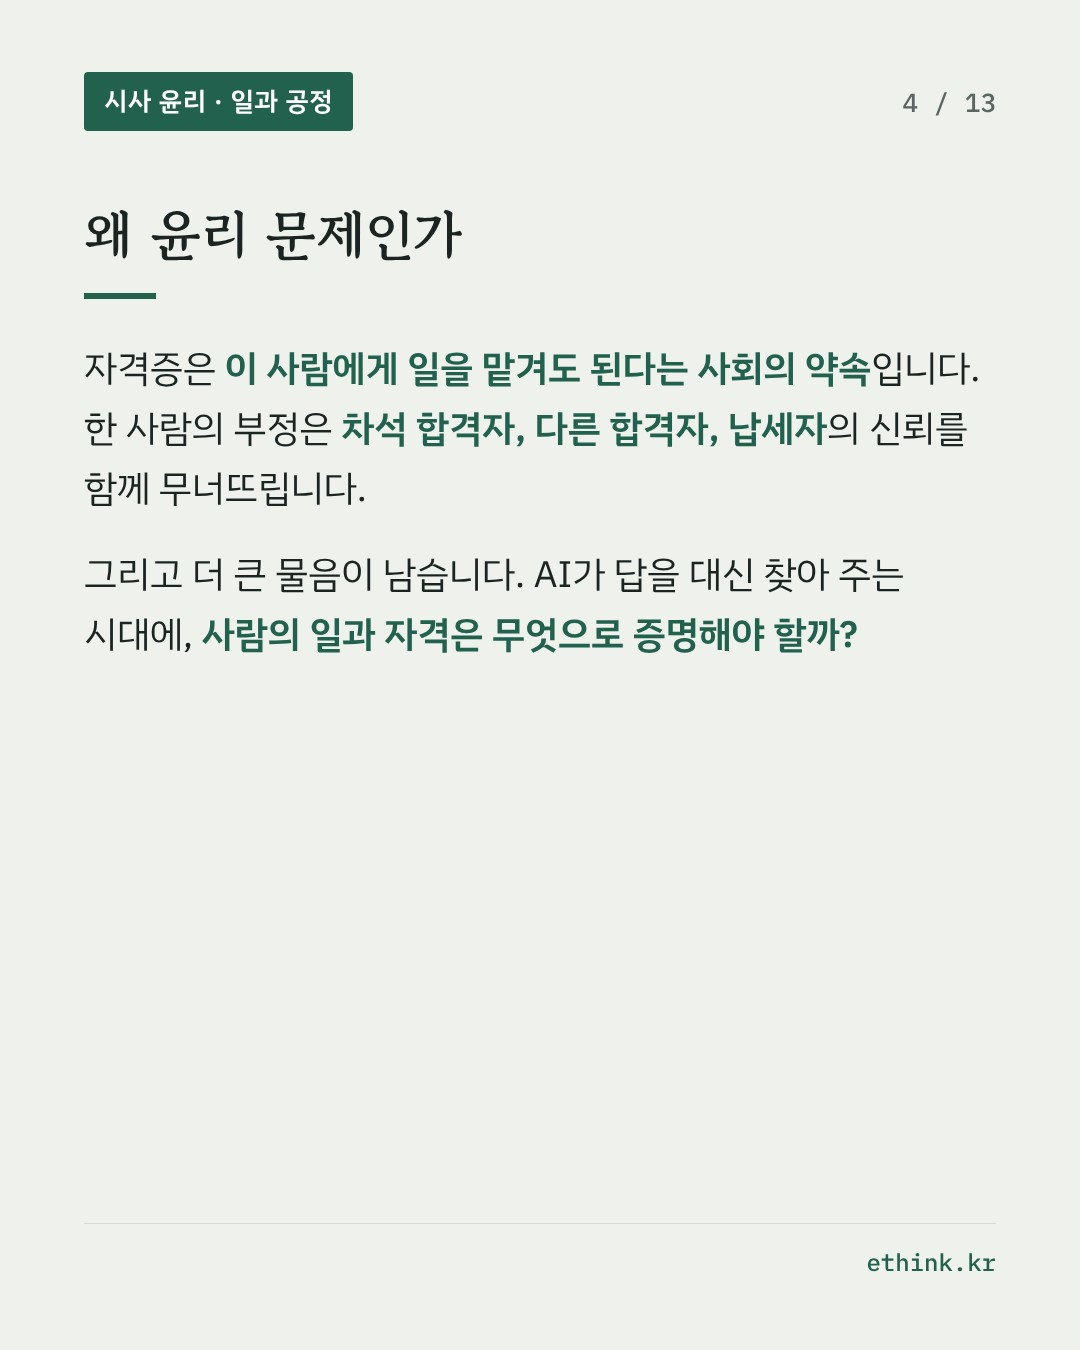
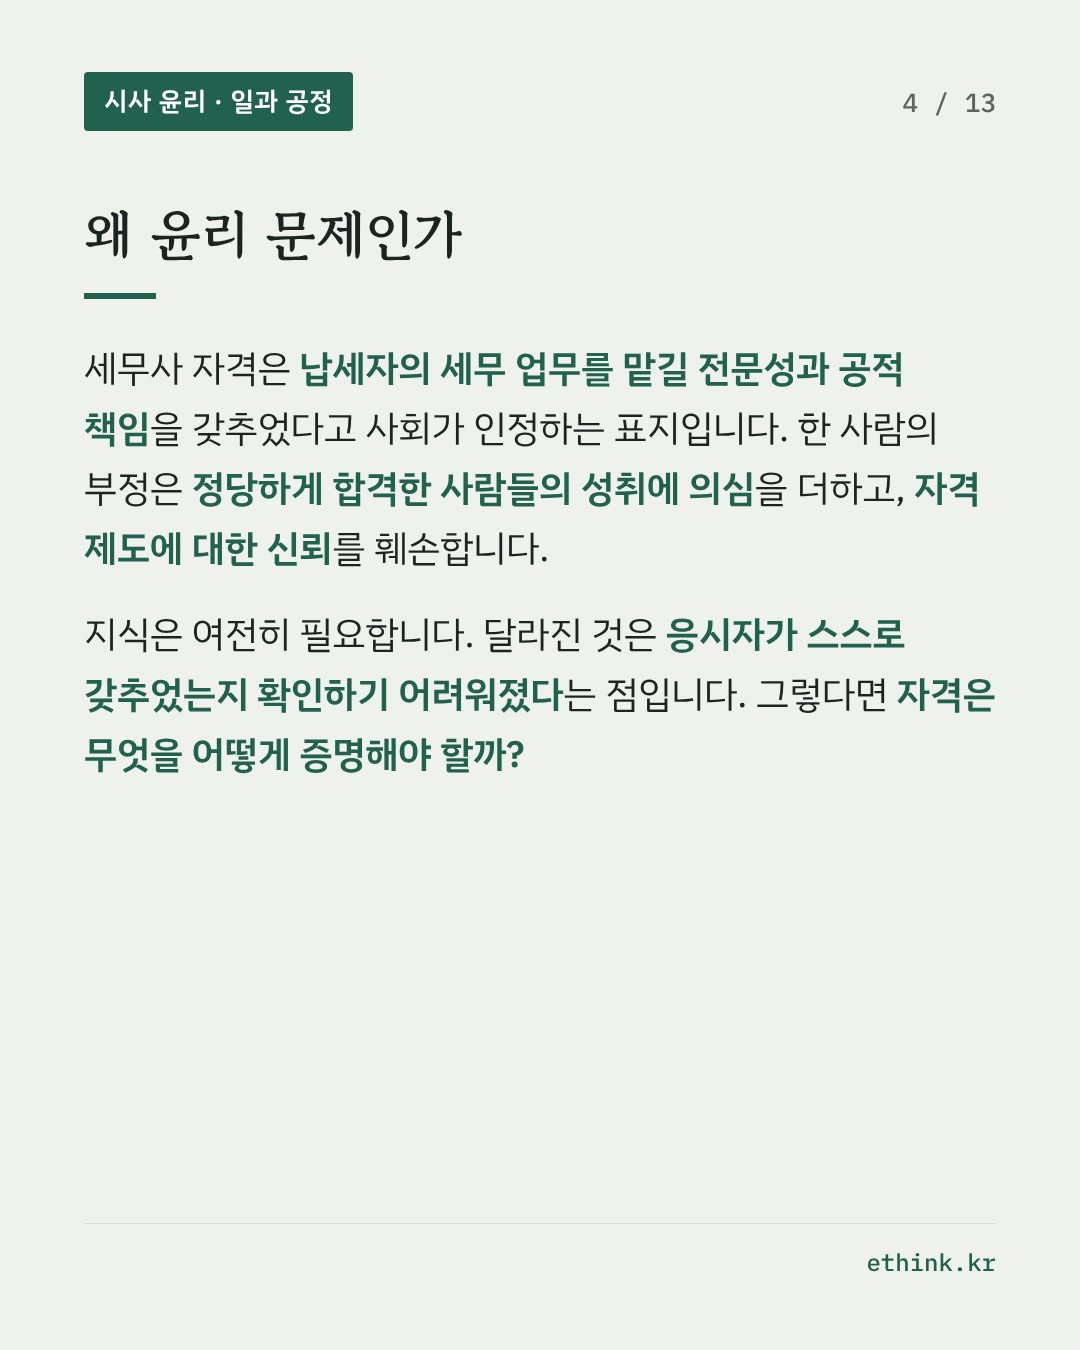
draft 11.16: GPT 검토 반영(합격 자리 서술, 세무사 직무, 진행형 처분, 6건, 시험 도식 재구성, 한은 문단 이동)

Changed region(s): [[0.0611, 0.2489, 0.9167, 0.5911]]

diff --git a/_items/2026-11-16/1.md b/_items/2026-11-16/1.md
@@ -5,7 +5,7 @@ section: 일과 공정
 kicker: 국내 · 11월 15일 세무사 시험 수석 합격자 자수
 title: 세무사 수석의 자백, 시험이 증명하던 자격은 어디로 가는가?
 question: AI가 답을 대신 찾아 주는 시대에, 자격과 일의 가치는 무엇으로 증명되어야 할까?
-caution: 세무사 시험 수석 합격자의 부정행위는 본인이 자수하며 밝힌 내용이고, 경찰 수사가 막 시작된 단계입니다. 혐의와 처분은 아직 확정되지 않았습니다. 이 글은 당사자의 이름을 쓰지 않으며, 개인을 비난하기보다 시험과 자격 제도, 일의 의미를 묻는 데 집중합니다. 신춘문예 응모작이 늘어난 까닭을 AI 때문이라고 단정할 수는 없습니다(AI 사용을 금지한 신문사도 응모작이 늘었습니다). 한국은행 보고서도 청년 일자리 감소를 AI만으로 설명할 수 없다고 밝혔습니다. 수업에서 학생에게 자신의 성적, 진로 고민, 가정 형편을 밝히게 하지 않습니다. 정약용과 프롬의 생각을 오늘의 시험과 AI에 대어 보는 것은 글쓴이의 적용입니다.
+caution: 세무사 시험 수석 합격자의 부정행위는 본인이 자수하며 밝힌 내용이고, 경찰 수사가 막 시작된 단계입니다. 혐의와 처분은 아직 확정되지 않았습니다. 이 글은 당사자의 이름을 쓰지 않으며, 개인을 비난하기보다 시험과 자격 제도, 일의 의미를 묻는 데 집중합니다. 한국은행 보고서는 청년 일자리 감소를 AI의 효과로 단정할 수 없다고 밝혔습니다. 차석 합격자는 합격 자리를 잃은 것이 아니며(세무사 시험은 최소합격인원을 정해 뽑습니다), 수석 합격자의 실제 업무 능력이 없다고 확인된 것도 아닙니다. 수업에서 학생에게 자신의 성적, 진로 고민, 가정 형편을 밝히게 하지 않습니다. 정약용과 프롬의 생각을 오늘의 시험과 AI에 대어 보는 것은 글쓴이의 적용입니다.
 subjects: [『인문학과 윤리』 · 삶의 방식으로서 소유와 존재란 무엇일까, 『현대사회와 윤리』 · 현대 생활과 윤리, 『현대사회와 윤리』 · 과학과 디지털 학습 환경 윤리]
 lenses: ["정약용 · 『목민심서』, 자리를 구하지 말라", 프롬 · 소유가 아닌 존재로서의 일]
 sources:
@@ -21,9 +21,11 @@ sources:
     url: https://supple.kr/news/cmvkdm3jp00gi5rus55x6h7up
   - name: 뉴데일리 (8.18, 한국은행 보고서)
     url: https://biz.newdaily.co.kr/site/data/html/2026/08/18/2026081800194.html
-  - name: 조선일보 (2025.12.15, 신춘문예 예심)
-    url: https://v.daum.net/v/20251215080146092
-  - name: 기자협회보 (2025.12.26)
+  - name: 뉴시스 (11.13, AI 안경 추가 적발)
+    url: https://www.newsis.com/view/NISX20261113_0003866636
+  - name: 일간NTN (세무사 2차 722명 합격)
+    url: https://www.intn.co.kr/news/articleView.html?idxno=2054363
+  - name: 기자협회보 (2025.12.26, 신춘문예 AI 규정)
     url: https://journalist.or.kr/m/m_article.html?no=59928
 og_image: /assets/og/2026-11-16-1.jpg
 ---
@@ -31,17 +33,17 @@ og_image: /assets/og/2026-11-16-1.jpg
 
 11월 15일, 제63회 세무사 시험 수석 합격자가 부정행위를 했다고 스스로 밝혔습니다. 그는 법률대리인의 유튜브 채널에 나와 1차(4월)와 2차(7월) 시험에서 모두 같은 방법을 썼다고 말했습니다. 초소형 카메라로 시험 문제를 찍어 생성형 AI로 보내고, 스마트폰으로 답을 확인했다는 것입니다. 3월에 치른 공인회계사 1차 시험에서도 같은 방법을 썼는데, 그 시험에는 떨어진 것으로 보도되었습니다. 그는 서울경찰청에 자수서를 냈고, 경찰은 사건을 광역수사단에 배당했습니다.
 
-수석 합격자 발표는 10월 28일이었습니다. 1차 시험에서 160문제 가운데 한 문제만 틀린 점수가 알려지며 온라인에서 의혹이 일었지만, 그는 처음에는 언론 인터뷰에서 부인했습니다. 시험장에는 감독관이 있었고, 시험을 맡아 운영한 한국산업인력공단은 당시 이상한 행동을 확인하지 못했다고 밝혔습니다. 재정경제부는 합격의 효력을 정지하는 절차를 서두르겠다고 했고, 공단은 그를 업무방해 혐의로 고소하고 다른 국가자격시험도 전수 조사하기로 했습니다.
+최종 합격자 발표는 10월 28일이었습니다(올해 최종 합격자는 722명입니다). 1차 시험에서 160문제 가운데 한 문제만 틀린 점수가 알려지며 온라인에서 의혹이 일었지만, 그는 처음에는 언론 인터뷰에서 부인했습니다. 시험장에는 감독관이 있었고, 시험을 맡아 운영한 한국산업인력공단은 당시 이상한 행동을 확인하지 못했다고 밝혔습니다. 공단은 그를 업무방해 혐의로 고소하기로 하고 합격 취소를 추진하고 있으며, 다른 국가자격시험도 전수 조사하기로 했습니다. 재정경제부는 세무사자격심의위원회를 최대한 빨리 열어 필요한 조치를 논의하겠다고 밝혔습니다.
 
-이번 일만이 아닙니다. 10월 23일 국정감사에서는 올해 소방설비기사, 정보처리기사, 전기산업기사, 가스기능사 필기시험에서 스마트 안경을 쓴 부정행위 5건이 적발되었다는 사실이 나왔습니다. 수능을 앞두고 AI 안경이 반입 금지 물품으로 명시된 일은 [지난 글](/weekly/2026-10-27/1/)에서 다루었습니다.
+이번 일만이 아닙니다. 10월 23일 국정감사에서는 올해 소방설비기사, 정보처리기사, 전기산업기사, 가스기능사 필기시험에서 스마트 안경을 쓴 부정행위 5건이 확인되었고, 이후 1건이 더 적발되었습니다. 수능을 앞두고 AI 안경이 반입 금지 물품으로 명시된 일은 [지난 글](/weekly/2026-10-27/1/)에서 다루었습니다.
 
-작가이자 변호사인 정지우는 이 소식을 두고 SNS에 이렇게 썼습니다. 시험으로 자격을 주는 방식이 사실상 끝나 가고 있고, 그 전에 레포트와 과제, 공모전이 먼저 흔들렸다는 것입니다. 실제로 조선일보 신춘문예에는 지난해 시 9,015편, 단편소설 1,312편이 들어와, 전체 응모작이 1만 3,612편으로 한 해 전(7,755편)의 약 1.8배가 되었습니다. 다만 늘어난 까닭은 하나로 말하기 어렵습니다. AI 사용을 금지한 신문사의 응모작도 함께 늘었기 때문입니다. 한국은행이 8월에 낸 보고서는 2022년 6월부터 4년 동안 청년(15~29세) 일자리가 28만 5천 개 줄었고, 그 가운데 94%가 AI에 많이 노출된 업종에서 줄었다고 분석했습니다. 같은 기간 50대 일자리는 23만 개 늘었습니다. 한국은행은 이 감소를 AI만으로는 다 설명할 수 없다고 덧붙였습니다.
+작가이자 변호사인 정지우는 이 소식을 두고 SNS에, 시험으로 자격을 주는 방식이 흔들리고 있으며 그 전에 레포트와 과제, 공모전이 먼저 흔들렸다고 썼습니다. 실제로 공모전에서는 새 규칙이 생기고 있습니다. 한국일보는 신춘문예 공고에 "생성형 인공지능(AI)을 활용한 사실이 확인되면 당선은 취소됩니다"라는 문장을 넣었고, 최종 후보에게 AI 사용 여부를 확인하는 신문사도 있습니다.
 
 ##### 왜 윤리 문제인가
 
 부정행위는 규칙 위반입니다. 이 점에는 이견이 없습니다. 그런데 이번 일은 두 가지를 더 묻게 합니다.
 
-첫째, 시험은 무엇을 약속하고 있었는가. 세무사 자격증은 이 사람에게 남의 세금과 재산을 맡겨도 된다는 사회의 약속입니다. 자수한 합격자는 "그 순간 2등인 사람은 정말 열심히 했을 텐데"라는 생각이 들었다고 말했습니다. 한 사람의 부정은 그 자리를 빼앗긴 한 사람, 덩달아 의심받게 된 다른 합격자들, 그리고 자격증을 믿고 일을 맡기던 모든 사람에게 피해를 줍니다. 사회학자 김동춘은 한국 사회의 이런 구조를 '시험능력주의'라고 불렀습니다.
+첫째, 시험은 무엇을 약속하고 있었는가. 세무사법은 세무사를 공공성을 지닌 세무 전문가로 정하고, 납세자의 권익을 보호하고 성실한 납세를 돕도록 합니다. 세무사 자격은 납세자의 세무 업무를 맡길 전문성과 공적 책임을 갖추었다고 사회가 인정하는 표지입니다. 자수한 합격자는 수석 발표를 확인한 순간 "2등인 사람은 정말 열심히 했을 텐데"라는 생각이 들었다고 말했습니다. 차석은 합격 자리를 잃지는 않았지만 수석이라는 명예를 빼앗겼습니다. 한 사람의 부정은 정당하게 시험을 치른 다른 수험생의 성취에 의심을 더하고, 시험과 자격 제도에 대한 신뢰를 훼손합니다. 사회학자 김동춘은 한국 사회의 이런 구조를 '시험능력주의'라고 불렀습니다.
 
 <figure class="src">
 <blockquote>
@@ -52,13 +54,13 @@ og_image: /assets/og/2026-11-16-1.jpg
 
 시험 점수 하나로 자리를 나누는 구조에서는 점수를 얻는 일이 곧 목표가 되기 쉽습니다. AI가 답을 대신 찾아 주는 시대에 그 점수가 흔들리면, 자리를 나누는 방식 전체가 흔들립니다.
 
-둘째, AI가 일을 대신할 때 사람의 일은 무엇으로 남는가. 정지우는 같은 글에서 이렇게 내다봅니다. AI가 사무실 안에서 일하는 동안 사람은 밖으로 나가 사람을 만나야 하고, "이제는 경험과 삶이 능력"이 되고 있다는 것입니다.
+둘째, AI가 답을 대신 찾아 줄 수 있을 때 자격은 무엇을 어떻게 증명해야 하는가. 전문 지식은 여전히 필요합니다. 달라진 것은 그 지식을 응시자가 스스로 갖추었는지 확인하기가 어려워졌다는 점, 그리고 AI가 내놓은 답을 검증하고 그 결과에 책임지는 능력까지 함께 확인해야 한다는 점입니다. 정지우는 같은 글에서 AI가 사무실 안에서 일하는 동안 사람은 밖으로 나가 사람을 만나야 하고, "이제는 경험과 삶이 능력"이 되고 있다고 내다봅니다.
 
 이 두 물음을 길벗 『인문학과 윤리』의 「삶의 방식으로서 소유와 존재란 무엇일까?」(140~147쪽)에 나오는 두 사람으로 읽어 봅니다. 첫째 물음은 정약용으로, 둘째 물음은 프롬으로 읽습니다.
 
 ##### 정약용으로 읽기: 자리를 위하여 사람을 고른다
 
-정약용(1762~1836)은 조선 후기의 실학자입니다. 18년 동안 유배 생활을 하며 백성의 삶을 깊이 들여다보았고, 지방 수령이 지켜야 할 일을 정리한 『목민심서』를 남겼습니다. 목민(牧民)은 백성이 편안하게 살 수 있도록 돌보는 일을 뜻합니다. 교과서는 이 책이 이렇게 시작한다고 소개합니다(145쪽). "목민관의 자리를 구해서는 안 된다." 원문의 첫 대목은 다음과 같습니다.
+정약용(1762~1836)은 조선 후기의 실학자입니다. 18년 동안 유배 생활을 하며 백성의 삶을 깊이 들여다보았고, 지방 수령이 지켜야 할 일을 정리한 『목민심서』를 남겼습니다. 목민(牧民)은 백성이 편안하게 살 수 있도록 돌보는 일을 뜻합니다. 길벗 『인문학과 윤리』(145쪽)는 『목민심서』가 "목민관의 자리를 구해서는 안 된다."라는 문장으로 시작한다고 소개합니다. 「자서」 다음에 오는 본문 첫 편 「부임」의 첫 대목입니다.
 
 <figure class="src">
 <blockquote>
@@ -87,7 +89,7 @@ og_image: /assets/og/2026-11-16-1.jpg
 <figcaption><span class="who">정약용</span><span class="from">출처: 정약용, 『목민심서』, 「자서」 · 『인문학과 윤리』(길벗) 145쪽</span></figcaption>
 </figure>
 
-공부의 절반은 나를 닦는 일이고, 나머지 절반은 남을 돌보는 일입니다. 점수만 얻으면 되는 공부에서는 두 절반이 모두 빠집니다. 나를 닦는 과정도 없고, 그 공부로 돌볼 사람도 보이지 않습니다.
+정약용이 말한 군자의 학문은 절반이 나를 닦는 일이고, 나머지 절반은 백성을 돌보는 일입니다. 오늘의 공부에 빗대어 보면, 점수를 얻는 일만 공부의 목적이 될 때 나를 닦는 일과 남을 위한 배움의 의미는 뒤로 밀릴 수 있습니다.
 
 ##### 프롬으로 읽기: 가진 것이 곧 나라면
 
@@ -102,7 +104,7 @@ og_image: /assets/og/2026-11-16-1.jpg
 
 시험에 대어 보면 이렇게 읽힙니다. 자격증은 본래 그 일을 잘하기 위한 수단입니다. 그런데 합격 자체가 목적이 되면, 공부하는 나는 합격증을 만들어 내는 도구가 됩니다. 교과서는 프롬의 물음을 이렇게 정리합니다(144쪽). "내가 가진 것이 곧 나라면 소유하고 있는 것을 잃어버렸을 때 나는 누구일 것인가?" 그리고 직업 생활의 궁극적 목적은 "더 많이 소유하기 위해서가 아니라 나 자신으로서 존재하는 데" 있다고 말합니다.
 
-합격증은 '가지는 것'입니다. 세무사로서 일한다는 것은 그 지식으로 사람을 돕는 사람으로 '있는 것'입니다. AI로 얻은 합격증은 가질 수는 있어도, 그 일을 할 수 있는 사람으로 있게 해 주지는 못합니다. 자수한 합격자가 1등을 확인한 순간 기쁨보다 미안함과 무거운 마음이 컸다고 말한 것도, 가진 것과 자신 사이의 간격을 느꼈기 때문일지 모릅니다.
+합격증은 '가지는 것'입니다. 세무사로서 일한다는 것은 그 지식으로 납세자를 돕는 사람으로 '있는 것'입니다. AI 부정행위로 얻은 합격증은 그 사람이 그 능력을 스스로 갖추었음을 더 이상 증명해 주지 못합니다. 프롬의 관점에서 읽으면, 자수한 합격자가 말한 수석 발표 순간의 미안함은 '가진 자격'과 '그 자격을 얻은 과정' 사이의 불일치를 생각하게 합니다.
 
 프롬은 일이 사람을 살아 있게 하려면 그 일이 내 안에서 비롯되어야 한다고 보았습니다.
 
@@ -113,20 +115,20 @@ og_image: /assets/og/2026-11-16-1.jpg
 <figcaption><span class="who">프롬</span><span class="from">출처: 프롬, 『우리는 여전히 삶을 사랑하는가』 · 『인문학과 윤리』(길벗) 143쪽</span></figcaption>
 </figure>
 
-정지우가 말한 "경험과 삶이 능력"인 시대는 이 생각과 닮았습니다. 정해진 답을 빨리 찾는 일은 AI가 대신할 수 있습니다. 그러나 사람을 만나 사정을 듣고, 몸으로 겪은 것을 바탕으로 판단하고, 그 판단에 책임지는 일은 그 사람 자신에게서 나옵니다. 자격이 앞으로 증명해야 할 것은 바로 이런 능력일 수 있습니다.
+정지우가 말한 "경험과 삶이 능력"인 시대도 이 생각과 닿아 있습니다. 다만 그것이 지식이 덜 중요해진다는 뜻은 아닙니다. AI가 내놓은 답이 맞는지 가려내려면 오히려 탄탄한 전문 지식이 필요합니다. 여기에 사람을 만나 사정을 듣고, 상황에 맞게 판단하고, 그 판단에 책임지는 일이 더해집니다. 이것은 그 사람 자신에게서 나오는 활동입니다. 앞으로의 자격은 전문 지식, AI 결과를 검증하는 능력, 판단, 책임을 함께 확인하는 방향으로 가야 할 것입니다.
 
-다만 이것을 개인의 각오만으로 돌려서는 안 됩니다. 한국은행 보고서가 보여 주듯 청년이 경험을 쌓을 첫 일자리 자체가 줄고 있습니다. 보고서는 기존의 신입 일자리를 지키는 데 그치지 말고, 청년이 AI를 쓰면서 경험과 기술을 쌓을 수 있는 새로운 '경력 사다리'를 만들어야 한다고 제안했습니다. 정약용이 자리를 구하는 사람에게만 책임을 묻지 않고 그 청탁을 들어주는 쪽도 함께 비판했듯, 자격과 일의 문제는 시험을 치르는 개인과 시험을 설계하는 사회가 함께 풀어야 합니다.
+다만 이것을 개인의 각오만으로 돌려서는 안 됩니다. 한국은행이 8월에 낸 보고서는 2022년 6월부터 2026년 6월까지 청년(15~29세) 일자리가 28만 5천 개 줄었고, 그 가운데 26만 8천 개(94%)가 AI에 많이 노출된 업종에서 줄었다고 분석했습니다. 같은 기간 50대 일자리는 23만 개 늘었습니다. 한국은행은 이것을 AI 때문이라고 단정할 수 없다고 밝혔지만, 청년이 경험을 쌓을 첫 일자리가 줄고 있다는 점은 분명합니다. 보고서는 기존의 신입 일자리를 지키는 데 그치지 말고, 청년이 AI를 쓰면서 경험과 기술을 쌓을 수 있는 새로운 '경력 사다리'를 만들어야 한다고 제안했습니다. 정약용이 자리를 구하는 사람에게만 책임을 묻지 않고 그 청탁을 들어주는 쪽도 함께 비판했듯, 자격과 일의 문제는 시험을 치르는 개인과 시험을 설계하는 사회가 함께 풀어야 합니다.
 
 ##### 수업에서 쓰는 법
 
 이 사례에서는 정약용으로 "자격은 누구를 위해 있는가"를, 프롬으로 "자격증을 가지는 것과 그 일을 하는 사람으로 있는 것은 어떻게 다른가"를 다룹니다. 부정행위를 한 개인을 비난하는 데서 멈추지 않고, 시험과 자격이 사회에 무엇을 약속하는지로 넓혀 갑니다.
 
 <figure class="fig">
-<p class="fig-title">시험이 증명하던 것, AI가 흔든 것, 새로 증명해야 할 것</p>
+<p class="fig-title">시험이 증명하려던 것, AI가 흔든 것, 더 확인해야 할 것</p>
 <div class="scale scale-three">
-<div class="scale-cell"><p class="scale-head">시험이 증명하던 것</p><p>정해진 시간 안에, 혼자 힘으로, 정답을 찾아내는 능력</p><p class="scale-ex">세무사 1차 시험: 재정학, 세법학개론, 회계학개론 등</p></div>
-<div class="scale-cell"><p class="scale-head">AI가 흔든 것</p><p>'혼자 힘으로'를 확인하는 방법. 정답 찾기는 AI가 더 빠르다</p><p class="scale-ex">초소형 카메라, AI 안경으로 감독을 피한 사례가 잇따름</p></div>
-<div class="scale-cell scale-cell-strong"><p class="scale-head">새로 증명해야 할 것</p><p>사람을 만나 판단하고, 그 판단에 책임지는 능력</p><p class="scale-ex">정약용: 자리는 돌볼 사람을 위해 있다 · 프롬: 가진 것이 아니라 존재하는 나</p></div>
+<div class="scale-cell"><p class="scale-head">시험이 증명하려던 것</p><p>일정한 조건에서 전문 지식과 문제 해결 능력을 응시자 스스로 갖추었는가</p><p class="scale-ex">세무사 1차(객관식)와 2차(논술형): 세법, 회계 지식과 그 적용</p></div>
+<div class="scale-cell"><p class="scale-head">AI가 흔든 것</p><p>답의 출처와 응시자가 혼자 해냈는지를 기존 감독 방식만으로 확인할 수 있는가</p><p class="scale-ex">초소형 카메라, AI 안경으로 감독을 피한 사례가 잇따름</p></div>
+<div class="scale-cell scale-cell-strong"><p class="scale-head">더 확인해야 할 것</p><p>전문 지식 + AI 결과를 검증하는 능력 + 상황 판단 + 윤리적 책임</p><p class="scale-ex">정약용: 자리는 돌볼 사람을 위해 있다 · 프롬: 가진 것이 아니라 존재하는 나</p></div>
 </div>
 <p class="fig-note">세 칸의 분류는 이 글의 정리입니다. 셋째 칸은 정답이 아니라 토론의 출발점입니다.</p>
 </figure>
@@ -135,7 +137,7 @@ og_image: /assets/og/2026-11-16-1.jpg
 <p class="fig-title">수업 흐름</p>
 <ol class="flow">
 <li><span class="flow-step">사실 정리하기</span><br>
-<span class="flow-desc">세무사 시험 사건에서 확인된 사실(본인의 자수, 경찰 수사 시작)과 아직 확정되지 않은 것(혐의, 처분)을 나누어 적는다. 이 부정행위로 피해를 본 사람을 모두 찾아본다(차석 합격자, 다른 합격자, 납세자, 감독관)</span></li>
+<span class="flow-desc">세무사 시험 사건에서 확인된 사실(본인의 자수, 경찰 수사 시작)과 아직 확정되지 않은 것(혐의, 처분)을 나누어 적는다. 이 부정행위로 영향을 받은 사람과 집단을 찾아본다(예: 차석 합격자, 다른 합격자와 수험생, 납세자, 시험 운영 기관)</span></li>
 <li><span class="flow-step">정약용으로 읽기</span><br>
 <span class="flow-desc">길벗 『인문학과 윤리』 145쪽의 『목민심서』 「자서」와 "목민관의 자리를 구해서는 안 된다"를 읽고, '사람을 위하여 자리를 고르는 것'과 '자리를 위하여 사람을 고르는 것'의 차이를 오늘의 자격시험에 대어 설명한다</span></li>
 <li><span class="flow-step">프롬으로 읽기</span><br>
@@ -159,4 +161,4 @@ og_image: /assets/og/2026-11-16-1.jpg
 
 이 사례로 탐구 보고서를 쓰려는 학생에게는 세 가지 주제를 권합니다. 첫째, 국가자격시험과 대학 시험에서 AI 부정행위를 막기 위해 나온 대책(감독관 증원, 수험생 안경 전수 확인, 전파 탐지기 도입 등)을 비교하고, 감시를 늘리는 방법과 평가 방식을 바꾸는 방법의 장단점을 따져 보는 주제입니다. 둘째, 한국은행 보고서 「청년고용 위축, AI 탓인가?」를 읽고 AI가 일을 대신하는(자동화) 업종과 일을 돕는(보완) 업종에서 청년 일자리가 어떻게 달랐는지 정리하는 주제입니다. 셋째, 신춘문예처럼 AI 사용을 금지하거나 허용하는 공모전·시험의 규정을 모아, 창작과 평가에서 '자기 힘으로'를 어떻게 정의하는지 비교하는 주제입니다.
 
-마무리 질문은 학생에게 돌려줍니다. 내가 언젠가 얻고 싶은 자격증이나 직업은, 누구를 위해 있는 자리인가. 그 자리에 맞는 사람이 되려면 시험 말고 무엇을 길러야 하는가.
+마무리 질문은 학생에게 돌려줍니다. 내가 언젠가 얻고 싶은 자격증이나 직업은, 누구를 위해 있는 자리인가. 그 자리에 맞는 사람이 되려면 시험으로 확인하기 어려운 무엇을 더 길러야 하는가.
